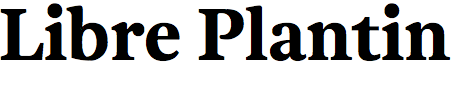
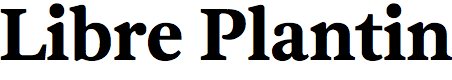
updating sample image

Changed region(s): [[0.4336, 0.025, 1.0, 0.775], [0.0, 0.025, 0.4027, 0.775], [0.0, 0.1, 0.0619, 0.2]]

diff --git a/documentation/sample.py b/documentation/sample.py
@@ -6,7 +6,7 @@ print installedFonts()
 
 # static variables
 canvasWidth = 452  # size of the image in pixels
-canvasHeight = 90
+canvasHeight = 80
 
 # gird variables
 origin = (128, 128)
@@ -29,7 +29,7 @@ font("LibrePlantin-Bold")
 tracking(0)
 fill(0)
 stroke(None)
-text("Libre Plantin", (-2, 30))
+text("Libre Plantin", (-2, 20))
 fill(1, 0, 0)
                    
 saveImage("sample.png")
